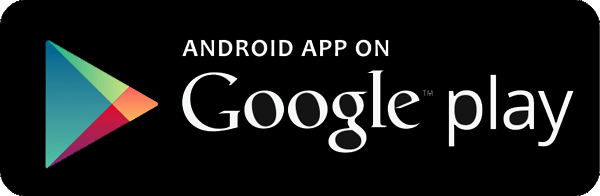
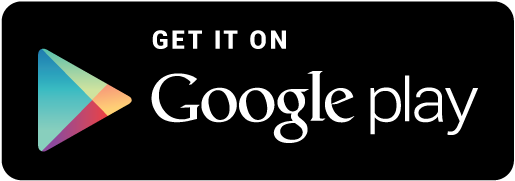
update app buttons

diff --git a/MediaBrowser.WebDashboard/dashboard-ui/dashboard.html b/MediaBrowser.WebDashboard/dashboard-ui/dashboard.html
@@ -16,9 +16,9 @@
                 </div>
                 <div class="dashboardContent">
                     <div class="ui-bar-a welcomeMessage" style="display: none; padding: 2em; border-radius: 10px; margin: 2em 0; font-weight: normal; max-width: 800px;">
-                        <h1 style="margin-top: 0;">${HeaderWelcomeToMediaBrowserServerDashboard}</h1>
+                        <h1 style="margin-top: 0;" class="tourHeader"></h1>
                         <p>
-                            <button class="btnTakeTour" type="button" data-icon="arrow-r" data-iconpos="right">${ButtonTakeTheTour}</button>
+                            <button class="btnTakeTour" type="button" data-icon="arrow-r" data-iconpos="right"><span class="tourButtonText"></span></button>
                         </p>
                     </div>
 
@@ -120,9 +120,7 @@
                         <div id="contribute" style="margin-top: 2em; display: none;">
                             <h2 style="margin: 0 0 .35em;">${HeaderHelpImproveMediaBrowser}</h2>
                             <div>
-                                <a data-role="button" data-icon="mail" data-mini="true" href="supporter.html">
-                                    <img src="css/images/supporter/donatepaypal.png" />
-                                </a>
+                                <a data-role="button" data-icon="mail" data-mini="true" href="supporter.html">${ButtonDonate}</a>
                                 <a href="https://github.com/MediaBrowser/MediaBrowser/wiki" data-role="button" target="_blank" data-icon="user" data-mini="true">Join the Development Team</a>
 
                                 <p class="appLinks" style="padding-left: 5px;">

diff --git a/MediaBrowser.WebDashboard/dashboard-ui/scripts/indexpage.js b/MediaBrowser.WebDashboard/dashboard-ui/scripts/indexpage.js
@@ -533,8 +533,25 @@
         });
     }
 
-    function showWelcomeIfNeeded() {
-        
+    function showWelcomeIfNeeded(page, displayPreferences) {
+
+        if (displayPreferences.CustomPrefs[homePageTourKey] == homePageDismissValue) {
+            $('.welcomeMessage', page).hide();
+        } else {
+
+            var elem = $('.welcomeMessage', page).show();
+
+            if (displayPreferences.CustomPrefs[homePageTourKey]) {
+
+                $('.tourHeader', elem).html(Globalize.translate('HeaderWelcomeBack'));
+                $('.tourButtonText', elem).html(Globalize.translate('ButtonTakeTheTourToSeeWhatsNew'));
+
+            } else {
+
+                $('.tourHeader', elem).html(Globalize.translate('HeaderWelcomeToMediaBrowserWebClient'));
+                $('.tourButtonText', elem).html(Globalize.translate('ButtonTakeTheTour'));
+            }
+        }
     }
 
     function takeTour(page, userId) {
@@ -581,12 +598,7 @@
 
         ApiClient.getDisplayPreferences('home', userId, 'webclient').done(function (result) {
 
-            if (result.CustomPrefs[homePageTourKey] == homePageDismissValue) {
-                $('.welcomeMessage', page).hide();
-            } else {
-                $('.welcomeMessage', page).show();
-            }
-
+            showWelcomeIfNeeded(page, result);
             loadSections(page, userId, result);
         });
 

diff --git a/MediaBrowser.WebDashboard/dashboard-ui/scripts/dashboardpage.js b/MediaBrowser.WebDashboard/dashboard-ui/scripts/dashboardpage.js
@@ -1249,7 +1249,7 @@ $(document).on('pagebeforeshow', "#dashboardPage", DashboardPage.onPageShow)
 
 (function ($, document, window) {
 
-    var welcomeDismissValue = '8';
+    var welcomeDismissValue = '10';
     var welcomeTourKey = 'welcomeTour';
 
     function dismissWelcome(page, userId) {
@@ -1272,7 +1272,19 @@ $(document).on('pagebeforeshow', "#dashboardPage", DashboardPage.onPageShow)
             if (result.CustomPrefs[welcomeTourKey] == welcomeDismissValue) {
                 $('.welcomeMessage', page).hide();
             } else {
-                $('.welcomeMessage', page).show();
+
+                var elem = $('.welcomeMessage', page).show();
+
+                if (result.CustomPrefs[welcomeTourKey]) {
+
+                    $('.tourHeader', elem).html(Globalize.translate('HeaderWelcomeBack'));
+                    $('.tourButtonText', elem).html(Globalize.translate('ButtonTakeTheTourToSeeWhatsNew'));
+
+                } else {
+                    
+                    $('.tourHeader', elem).html(Globalize.translate('HeaderWelcomeToMediaBrowserServerDashboard'));
+                    $('.tourButtonText', elem).html(Globalize.translate('ButtonTakeTheTour'));
+                }
             }
         });
     }

diff --git a/MediaBrowser.WebDashboard/dashboard-ui/scripts/supporterpage.js b/MediaBrowser.WebDashboard/dashboard-ui/scripts/supporterpage.js
@@ -105,14 +105,14 @@
 
                 $('.planSummary', page)
                     .html(Globalize.translate('MessageYouHaveALifetimeMembership'))
-                    .css('color', 'blue');
+                    .css('color', 'green');
 
             }
             else if (info.IsActiveSupporter) {
 
                 $('.planSummary', page)
                     .html(Globalize.translate('MessageYouHaveAnActiveRecurringMembership').replace('{0}', info.PlanType))
-                    .css('color', 'blue');
+                    .css('color', 'green');
 
             }
             else if (info.IsExpiredSupporter) {
@@ -190,6 +190,8 @@
         $('#paypalReturnUrl', page).val(ApiClient.getUrl("supporterkey.html"));
 
         $('.radioDonationType', page).trigger('change');
+
+        $('.benefits', page).html(Globalize.translate('HeaderSupporterBenefit', '<a href="http://mediabrowser.tv/donate" target="_blank">', '</a>')).trigger('create');
 
         loadUserInfo(page);
     });

diff --git a/MediaBrowser.WebDashboard/dashboard-ui/index.html b/MediaBrowser.WebDashboard/dashboard-ui/index.html
@@ -17,9 +17,9 @@
         <div data-role="content">
 
             <div class="ui-bar-b readOnlyContent welcomeMessage" style="display: none; padding: 2em; border-radius: 10px; margin: 2em auto; font-weight: normal;">
-                <h1 style="margin-top: 0;">${HeaderWelcomeToMediaBrowserWebClient}</h1>
+                <h1 style="margin-top: 0;" class="tourHeader"></h1>
                 <p>
-                    <button class="btnTakeTour" type="button" data-icon="arrow-r" data-iconpos="right">${ButtonTakeTheTour}</button>
+                    <button class="btnTakeTour" type="button" data-icon="arrow-r" data-iconpos="right"><span class="tourButtonText"></span></button>
                 </p>
             </div>
 

diff --git a/MediaBrowser.WebDashboard/dashboard-ui/wizardfinish.html b/MediaBrowser.WebDashboard/dashboard-ui/wizardfinish.html
@@ -36,7 +36,7 @@
                     <a href="http://forum.team-mediaportal.com/threads/plugin-mediabrowser-for-mediaportal-v0-13-beta-2013-10-21.119513" target="_blank" title="Media Portal">
                         <img src="css/images/clients/mediaportal.png" /></a>
                 </p>
-
+                
                 <div class="wizardNavigation">
                     <button type="button" data-iconpos="left" data-icon="arrow-l" data-inline="true" onclick="history.back();">${LabelPrevious}</button>
                     <button type="button" data-iconpos="right" data-icon="check" data-inline="true" onclick="WizardFinishPage.onFinish();" data-theme="b">${LabelFinish}</button>

diff --git a/MediaBrowser.WebDashboard/dashboard-ui/supporter.html b/MediaBrowser.WebDashboard/dashboard-ui/supporter.html
@@ -21,7 +21,7 @@
                     <h3>${HeaderSupportTheTeam}</h3>
                     <p>${HeaderSupportTheTeamHelp}</p>
 
-                    <p>${HeaderSupporterBenefit}</p>
+                    <p class="benefits"></p>
 
                     <div class="currentPlanInfo" style="display:none;margin-top:1.5em;">
                         <p class="planSummary"></p>

diff --git a/MediaBrowser.WebDashboard/dashboard-ui/css/site.css b/MediaBrowser.WebDashboard/dashboard-ui/css/site.css
@@ -416,7 +416,7 @@ h1 .imageLink {
     }
 
 .appLinks img {
-    height: 32px;
+    height: 36px;
 }
 
 .activeDevicesCollapsible .ui-collapsible-content {
